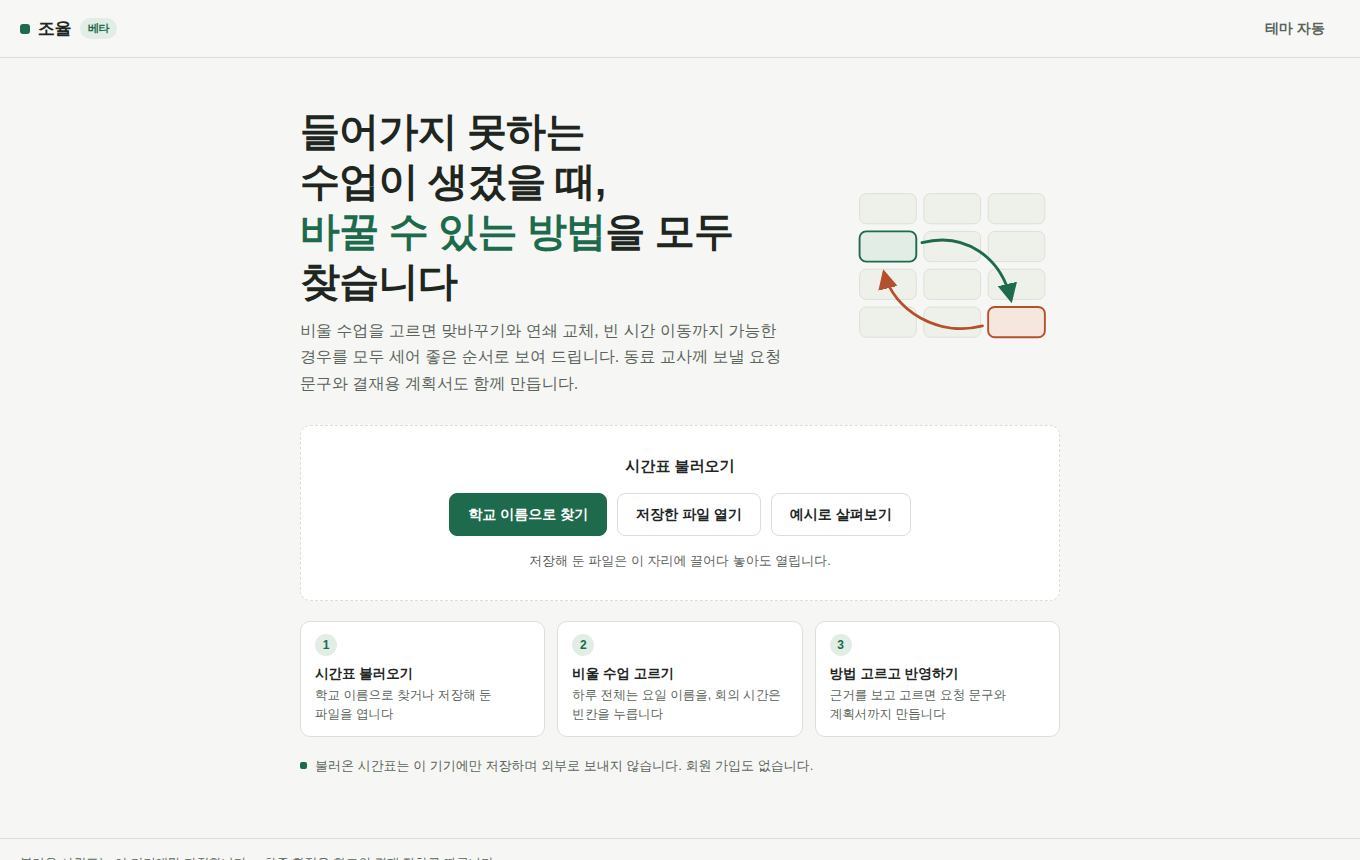
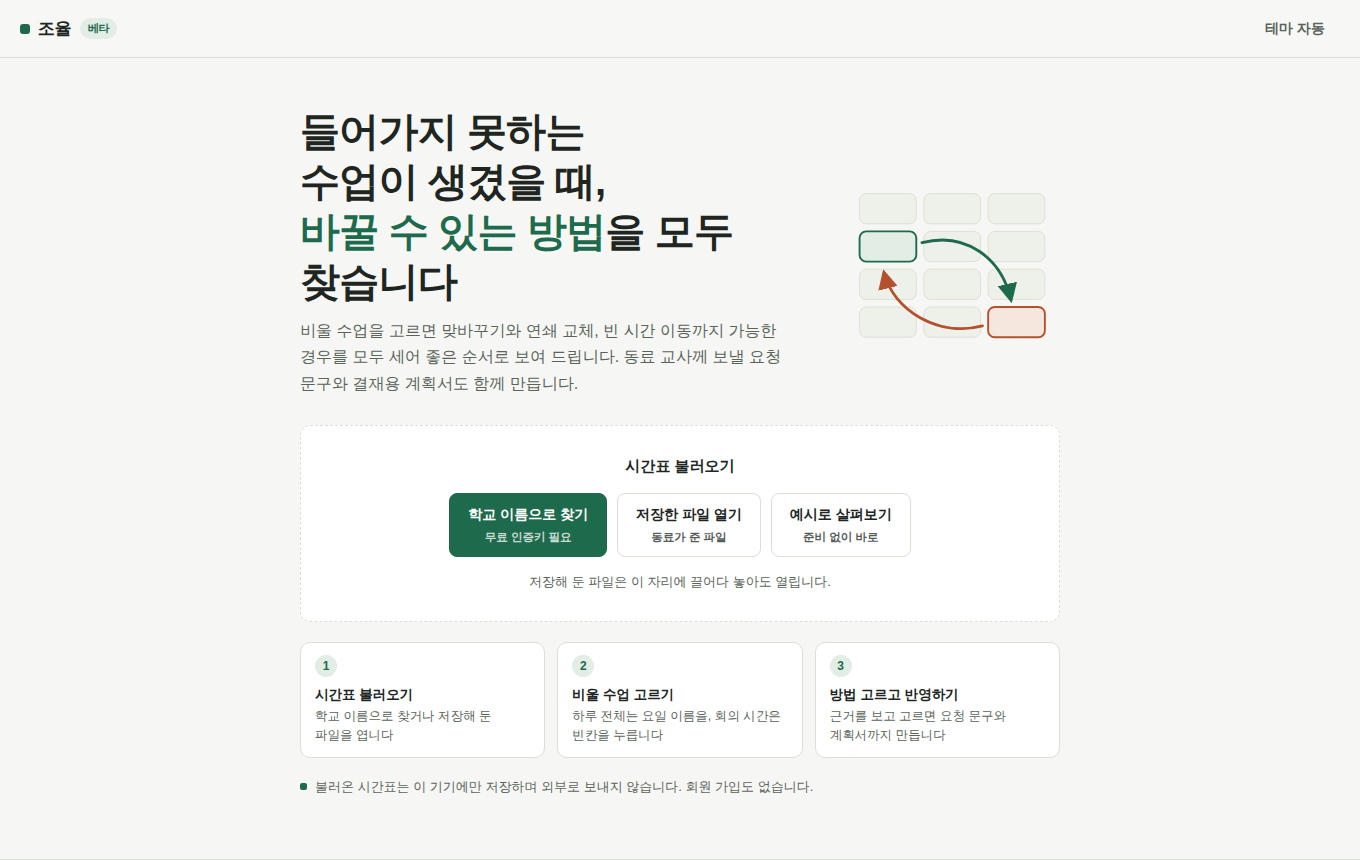
사용자 여정을 따라가 인증키와 첫 화면을 손본다
여정을 여덟 갈래로 밟았다. 처음 온 교사, 예시로 시작하는 교사, 동료가 준 파일을 여는
교사, 새로고침하는 교사, 시간강사, 학급 보기, 결재까지 가는 흐름, 실제 학교 자료다.
대부분 제대로 돌았고 다음이 걸렸다.

## 첫 화면에서 막힐 것을 미리 알린다

단추 셋이 나란히 있고 설명이 없었다. 그래서 나이스 쪽을 눌러 학교를 찾고 고른 뒤에야
인증키가 필요하다는 것을 알았다. 들인 수고가 헛되고 그 자리에서 접을 만한 순간이다.

    학교 이름으로 찾기   무료 인증키 필요
    저장한 파일 열기     동료가 준 파일
    예시로 살펴보기      준비 없이 바로

## 인증키를 어떻게 받는지 적는다

포털의 인증키 신청 화면을 확인했다. 회원가입 화면이 아니라 로그인 화면이고
카카오톡, 네이버, 구글, 다음 계정으로 들어간다. 포털이 그 자리에
"복잡한 회원가입 절차없이" 라고 적어 두었다.

"발급" 이라는 말만 보면 관공서 회원가입을 떠올려 접는다. 그래서 회원가입이 없다는 것과
카카오톡으로 로그인하면 된다는 것을 문구에 넣었다.

## 학교에서 한 사람만 하면 된다는 사실을 적는다

배정 화면이 이 도구에서 가장 무거운 자리다. 실제 특성화고를 재어 보니 채울 칸이
223개였다. 같은 학년 같은 과목 일괄 채우기로 62회까지 줄지만 그래도 적지 않다.
뭉치 62개 가운데 26개(42%)는 혼자뿐이라 일괄 채우기가 듣지 않는다.

중요한 것은 이 일을 학교에서 한 사람만 하면 된다는 점이다. 채운 결과를 파일로 내보내면
받은 사람은 열기만 하고 인증키도 필요하지 않다. 그 말이 어디에도 없어서
모두가 각자 223칸을 채우려 들 수 있었다.

## 자료가 없는 요일을 위쪽에서도 알린다

격자 머리글에만 표시되어 눈에 안 들었다. 파일로 받아 여신 분은 그 파일이 어떤 기간으로
만들어졌는지 모른다. 요일 하나가 통째로 빠졌다는 것은 위쪽에서 한 번 알려야 한다.

요일 이름이 한 글자라 "수 요일은" 이 되던 것도 붙여 썼다.

Changed region(s): [[0.2162, 0.7256, 0.7412, 0.9372], [0.0, 0.9977, 1.0, 1.0], [0.3088, 0.6047, 0.6485, 0.6953]]

diff --git a/apps/web/components/NeisLoader.tsx b/apps/web/components/NeisLoader.tsx
@@ -220,14 +220,24 @@ export function NeisLoader({ neisKey, onKeyChange, onDone, onCancel }: Props) {
             value={neisKey}
             onChange={(e) => onKeyChange(e.target.value.trim())}
           />
+          {/*
+           * 발급 절차를 확인해 적었다. 링크를 열면 회원가입 화면이 아니라 로그인 화면이고
+           * 카카오톡, 네이버, 구글 계정으로 바로 들어간다. 포털이 그 자리에
+           * "복잡한 회원가입 절차없이" 라고 적어 두었다.
+           * 이 사실이 빠져 있으면 "발급"이라는 말만 보고 관공서 회원가입을 떠올려 접는다.
+           */}
           <span className="neis-hint">
-            나이스는 키 없는 요청에 <b>5줄만</b> 보냅니다. 학교 하나를 받으려면 키가 필요합니다.{' '}
+            나이스는 키 없는 요청에 <b>5줄만</b> 보냅니다. 학교 하나가 수천 줄이라 키가
+            필요합니다.
+            <br />
+            <b>회원가입은 없습니다.</b> 아래를 열어 <b>카카오톡이나 네이버 계정으로 로그인</b>한 뒤
+            인증키 신청을 누르시면 바로 나옵니다.{' '}
             <a className="neis-link" href={NEIS_KEY_GUIDE} target="_blank" rel="noreferrer">
-              무료로 받는 곳
+              나이스에서 인증키 받기
             </a>
             <br />
-            발급은 무료이고 넣은 키는 이 브라우저에만 저장하며 나이스에만 보냅니다. 다음에 오시면
-            다시 넣지 않아도 됩니다.
+            받은 키를 위에 붙여 넣으십시오. 이 브라우저에만 저장하고 나이스에만 보냅니다. 다음에
+            오시면 다시 넣지 않아도 됩니다.
           </span>
         </label>
 
@@ -260,10 +270,24 @@ export function NeisLoader({ neisKey, onKeyChange, onDone, onCancel }: Props) {
           학교 다시 고르기
         </button>
       </div>
+      {/*
+       * 이 화면이 이 도구에서 가장 무거운 자리다.
+       * 실제 특성화고를 재어 보니 (학급, 과목) 짝이 223개였다. 같은 학년 같은 과목을
+       * 한 번에 채우는 단추를 쓰면 손으로 치는 횟수가 62회로 줄지만 그래도 적지 않다.
+       *
+       * 중요한 것은 이 일을 학교에서 한 사람만 하면 된다는 사실이다. 채운 결과를 파일로
+       * 내보내 동료에게 주면 동료는 열기만 하면 된다. 그 말을 여기 적어야
+       * 모두가 각자 223칸을 채우려 들지 않는다.
+       */}
       <p className="neis-lede">
         나이스 공개 자료에는 과목만 있고 담당 교사는 없습니다. 교체 방법을 찾으려면 누가 그 수업에
         들어가는지가 필요합니다. 아시는 것부터 채우십시오. 중간에 멈추어도 채운 만큼은 그대로
         쓸 수 있습니다.
+      </p>
+      <p className="neis-share">
+        <b>이 일은 학교에서 한 분만 하시면 됩니다.</b> 채운 뒤 위쪽 <b>파일로 저장</b>으로
+        내보내 동료께 전달하시면, 받으신 분은 <b>저장한 파일 열기</b>로 바로 시작하십니다.
+        인증키도 그분들께는 필요하지 않습니다.
       </p>
 
       <div className="neis-progress">

diff --git a/apps/web/app/globals.css b/apps/web/app/globals.css
@@ -135,8 +135,12 @@ select, input { font: inherit; color: inherit; }
 }
 .dropzone.on { border-color: var(--accent); background: var(--accent-soft); }
 .dropzone-title { margin: 0 0 14px; font-size: 15px; font-weight: 700; color: var(--ink); }
-.dropzone .actions { display: flex; gap: 10px; justify-content: center; flex-wrap: wrap; }
-.dropzone .actions .btn { padding: 9px 18px; }
+.dropzone .actions { display: flex; gap: 10px; justify-content: center; flex-wrap: wrap; align-items: stretch; }
+/* 단추마다 무엇이 필요한지 한 줄로 적는다. 누른 뒤에 알면 늦다 */
+.dropzone .actions .btn {
+  padding: 9px 18px; display: flex; flex-direction: column; align-items: center; gap: 2px;
+}
+.btn-sub { font-size: 11.5px; font-weight: 600; opacity: 0.75; }
 .dropzone-hint { margin: 14px 0 0; color: var(--muted); font-size: 13px; }
 
 /* 이어서 작업. 저장된 시간표가 있을 때만 나오며 가장 먼저 눈에 들어와야 한다. */
@@ -602,6 +606,11 @@ button.cell.empty:hover { border-color: var(--muted); }
   border-radius: 999px; padding: 2px 9px; margin-left: 8px;
 }
 .neis-warn { color: var(--warn); font-weight: 700; }
+/* 학교에서 한 사람만 채우면 된다는 사실. 이 화면의 부담을 가르는 정보다 */
+.neis-share {
+  font-size: 13px; line-height: 1.65; color: var(--ink); margin: 0 0 16px;
+  background: var(--accent-soft); border-radius: 10px; padding: 12px 14px;
+}
 .neis-row { display: flex; gap: 8px; }
 .neis-row .input { flex: 1; }
 .input {

diff --git a/apps/web/components/Landing.tsx b/apps/web/components/Landing.tsx
@@ -136,15 +136,25 @@ export function Landing({
           }}
         >
           <p className="dropzone-title">시간표 불러오기</p>
+          {/*
+           * 세 길이 무엇을 요구하는지 누르기 전에 밝힌다.
+           *
+           * 전에는 단추 셋이 나란히 있고 설명이 없었다. 그래서 나이스 쪽을 눌러 학교를
+           * 찾고 고른 뒤에야 인증키가 필요하다는 것을 알았다. 들인 수고가 헛되고
+           * 그 자리에서 도구를 접을 만한 순간이다.
+           */}
           <div className="actions">
             <button className="btn primary" onClick={onNeis} disabled={busy}>
               학교 이름으로 찾기
+              <span className="btn-sub">무료 인증키 필요</span>
             </button>
             <button className="btn" onClick={() => inputRef.current?.click()} disabled={busy}>
               저장한 파일 열기
+              <span className="btn-sub">동료가 준 파일</span>
             </button>
             <button className="btn" onClick={onSample} disabled={busy}>
               {busy ? '불러오는 중' : '예시로 살펴보기'}
+              {!busy && <span className="btn-sub">준비 없이 바로</span>}
             </button>
             <input
               ref={inputRef}

diff --git a/apps/web/components/Workbench.tsx b/apps/web/components/Workbench.tsx
@@ -1001,6 +1001,23 @@ export function Workbench() {
         </div>
       )}
 
+      {/*
+       * 자료가 없는 요일은 격자 머리글에도 표시되지만 그것만으로는 눈에 안 든다.
+       * 파일로 받아 여신 분은 그 파일이 어떤 기간으로 만들어졌는지 모른다.
+       * 요일 하나가 통째로 빠졌다는 것은 위쪽에서 한 번 알려야 한다.
+       */}
+      {blankDays.length > 0 && input && !atHome && !needsPick && (
+        <div className="warn-bar soft" role="status">
+          <b>
+            {/* 요일 이름이 한 글자라 "수 요일" 이 되지 않게 붙여 쓴다 */}
+            {blankDays.map((d) => `${input.config.dayNames[d] ?? d + 1}요일`).join(', ')}은 받은
+            자료에 없습니다.
+          </b>{' '}
+          그 요일로 옮기는 안은 내지 않습니다. 학교가 그날 수업을 한다면 나이스에서 기간을 넓혀
+          다시 불러오십시오.
+        </div>
+      )}
+
       {unfilled > 0 && !atHome && !needsPick && (
         <div className="warn-bar soft" role="status">
           담당 교사를 아직 안 채운 수업이 <b>{unfilled}자리</b> 있습니다. 그 자리는 수업이 있는

diff --git a/03-domain-and-data.md b/03-domain-and-data.md
@@ -173,6 +173,52 @@ GET /hub/schoolInfo?Type=json&SCHUL_NM=수지고등학교
 
 ---
 
+### 3.4 인증키를 어떻게 다룰 것인가
+
+여정을 따라가 보니 여기서 사람이 가장 많이 떨어진다. 사실부터 정리한다.
+
+### 왜 필요한가
+
+키가 없으면 나이스가 **요청 하나에 5줄만** 보낸다. 쪽 넘김도 듣지 않는다. 재어 확인했다.
+
+```
+GET hisTimetable  (학급 하나, 하루, 키 없음)
+list_total_count 6    그날 그 학급은 6교시다
+받은 행 5             6교시는 오지 않는다
+```
+
+우리 앱은 학교 전체를 한 번에 묻는다. 5주치 학교 하나가 수천 줄인데 5줄을 받는다.
+그것으로 만든 시간표는 거의 다 빈 시간이고, **빈 시간은 옮겨도 되는 자리로 읽힌다.**
+그래서 잘린 자료로는 다음 단계로 보내지 않는다.
+
+### 어떻게 받는가
+
+포털의 인증키 신청 화면은 회원가입이 아니라 **로그인 화면**이다. 카카오톡, 네이버,
+구글, 다음 계정으로 들어간다. 포털이 그 자리에 "복잡한 회원가입 절차없이" 라고 적어 두었다.
+
+화면 문구에 이 사실을 넣었다. "발급" 이라는 말만 보면 관공서 회원가입을 떠올리고 접는다.
+넣은 키는 이 브라우저에 저장되므로 다시 넣지 않는다.
+
+### 학교에서 몇 명이 받아야 하는가
+
+**한 명이다.** 이것이 부담을 가르는 사실이라 배정 화면에 적었다.
+
+키가 필요한 일은 나이스에서 학교 시간표를 받아 교사 배정을 채우는 것까지다.
+채운 결과는 파일로 나갈 수 있고, 받은 사람은 열기만 하면 된다. 키가 필요하지 않다.
+
+실제 특성화고를 재어 보니 채울 칸이 223개였다. 같은 학년 같은 과목을 한 번에 채우는
+단추로 손으로 치는 횟수가 62회로 줄지만 그래도 적지 않은 일이다.
+그 일을 학교마다 한 번만 하도록 만드는 것이 파일 내보내기의 목적이다.
+
+| 자리 | 인증키 | 채우는 일 |
+|---|---|---|
+| 일과 담당 한 명 | 필요 | 62회 |
+| 나머지 교사 | 필요 없음 | 없음 |
+
+같은 학년 같은 과목 뭉치 62개 가운데 26개(42%)는 혼자뿐이라 일괄 채우기가 듣지 않는다.
+전문교과처럼 한 학급만 듣는 과목이 여기 걸린다.
+
+
 ## 4. 배제한 경로
 
 다른 서비스의 학생용 뷰어가 내부적으로 주고받는 응답을 받아 오는 길이 있다. 이 길은 쓰지 않는다.
